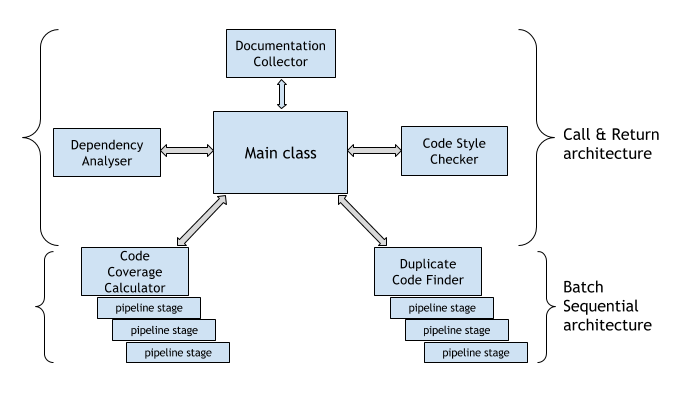
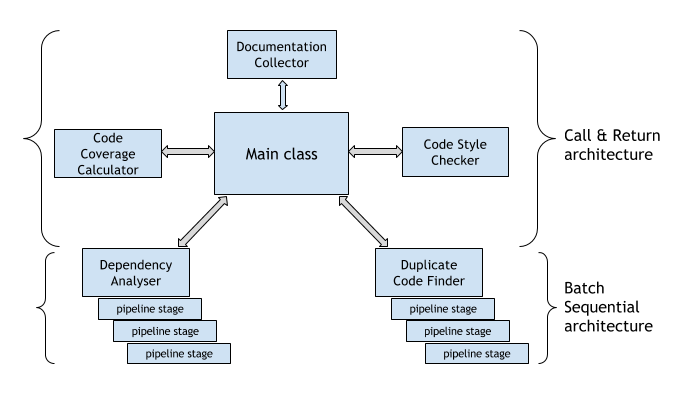
fixed arch diag, removed some text

Changed region(s): [[0.0309, 0.059, 0.9882, 0.914], [0.0618, 0.059, 0.0926, 0.0885]]

diff --git a/design.md b/design.md
@@ -4,9 +4,6 @@
 Today’s software industry demands agility, flexibility and efficiency. A major timesink for developers are tasks related to code review (CR). When posting code for review, developers typically follow a template, and add information to it - such as a list of changes made, list of new dependencies added with reason, and, test coverage figures. It is also of interest to ensure that the new changes made do not duplicate any existing code and follow good coding styles. Code review is thus a very important part of the software engineering process. However, manually collecting and writing all this information for  CR is a mundane, repetitive, error-prone and cumbersome job. Whether a novice developer or an expert, there is high probability that they overlook some checkpoints, eventually resulting in poor software. 
 
 
-In every software development lifecycle, a developer needs to document the changes he/she made to the existing code. Building a code needs to take into account the dependencies of several packages. The code is tested and the percentage of code covered in the test cases is also documented. When several programmers collaborate in a project, it is likely that the code written by one may be very similar to what another programmer wrote. Such duplications should be minimal, or none at all. 
-
-
 In our project, we endeavour to create a bot which will facilitate a software engineer to complete the tasks listed before, saving the developer precious time to devote to other tasks. We hope that using our bot will also reduce the hassles faced by reviewers and reduce errors.
 
 ## Bot Description
